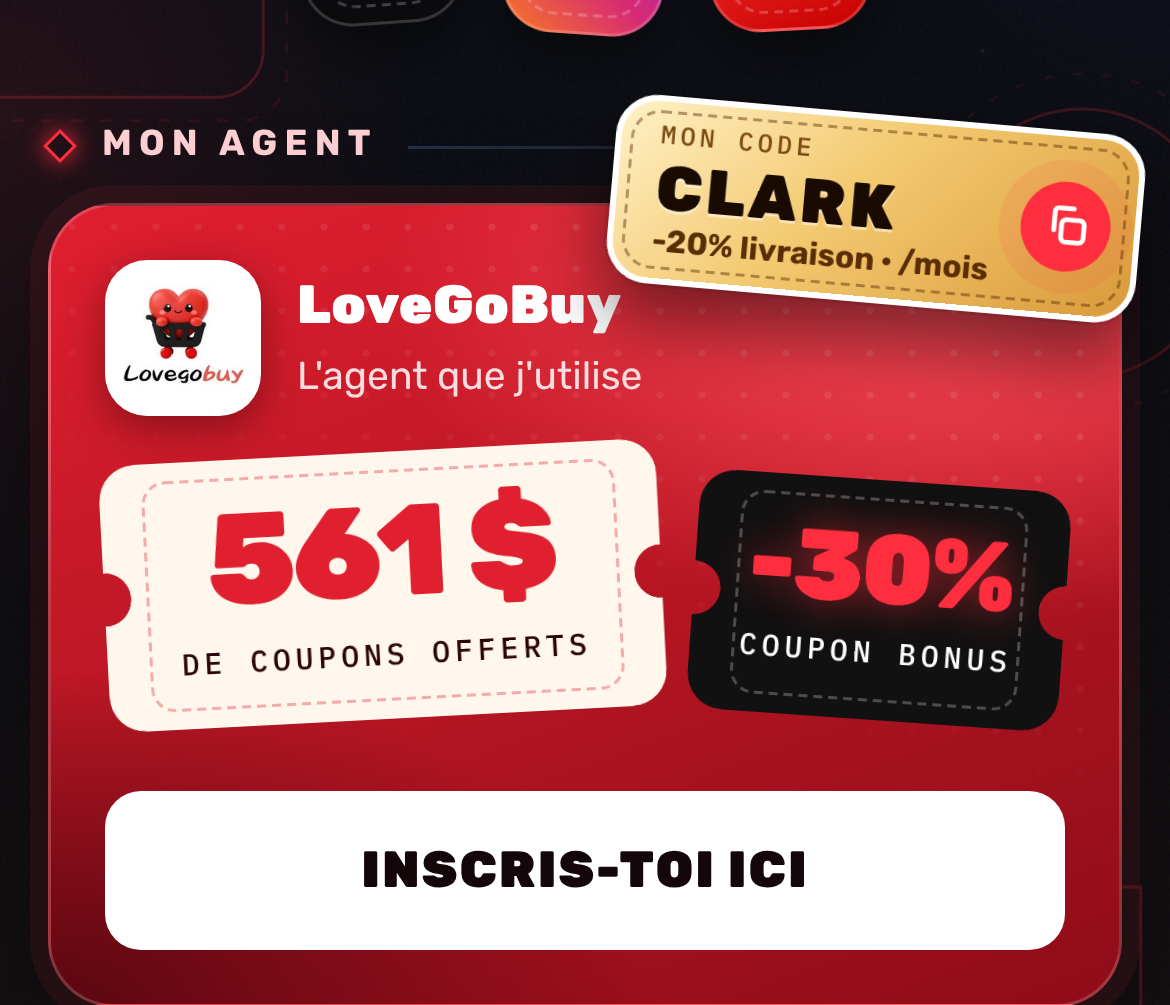
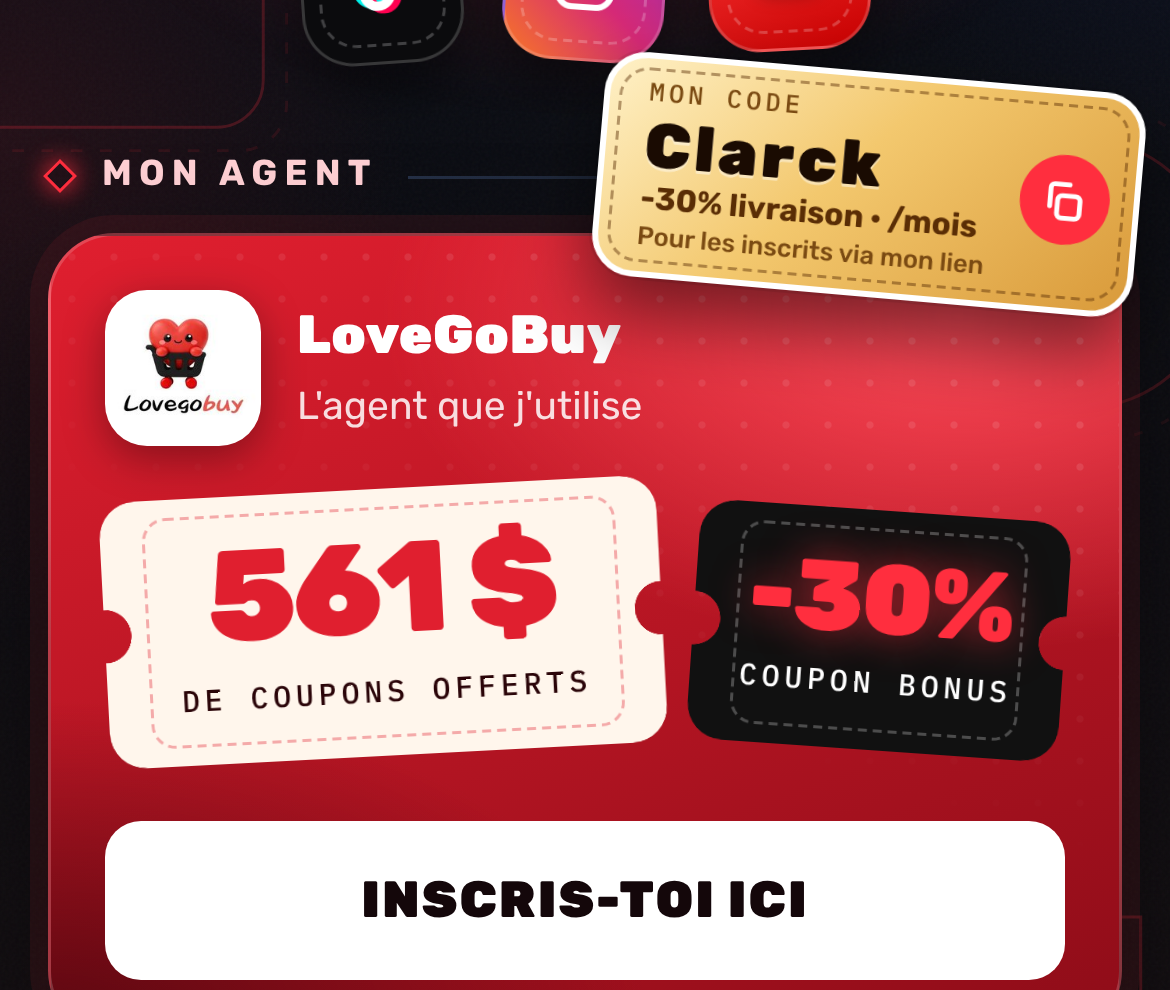
Autocollant du code : Clarck, -30 %, réservé aux inscrits via le lien
- Code affiché « Clarck » (identique au texte copié)
- Réduction livraison passée à -30 %
- Mention « Pour les inscrits via mon lien »
- Autocollant remonté pour ne pas masquer le nom LoveGoBuy

Claude-Session: https://claude.ai/code/session_01UBq3moQQS3mX5c11TKUgSi

diff --git a/index.html b/index.html
@@ -265,7 +265,7 @@ h2 i{width:8px;height:8px;border:1.5px solid var(--red);transform:rotate(45deg);
 .copyable.copied .cbtn{background:#1f9d55;animation:none}
 .feature-wrap{position:relative}
 .feature-wrap .feature .pill{display:none}
-.sticker{position:absolute;z-index:5;top:-24px;right:-6px;display:flex;align-items:center;gap:10px;padding:7px 8px 7px 13px;border:2px solid #fff;border-radius:14px;
+.sticker{position:absolute;z-index:5;top:-52px;right:-6px;display:flex;align-items:center;gap:10px;padding:7px 8px 7px 13px;border:2px solid #fff;border-radius:14px;
   font:inherit;text-align:left;cursor:pointer;color:#2a1404;background:linear-gradient(135deg,#fff1c7 0%,#f3c86e 45%,#d99a3a 100%);-webkit-tap-highlight-color:transparent;overflow:hidden;
   box-shadow:0 12px 24px rgba(0,0,0,.5),0 0 0 1px rgba(0,0,0,.08);--r:5deg;transform:rotate(var(--r));animation:float 3.4s ease-in-out infinite}
 .sticker::before{content:"";position:absolute;inset:3px;border:1.2px dashed rgba(90,45,5,.45);border-radius:10px;pointer-events:none}
@@ -275,8 +275,9 @@ h2 i{width:8px;height:8px;border:1.5px solid var(--red);transform:rotate(45deg);
 .sticker small{font-family:var(--mono);font-size:8.5px;letter-spacing:.16em;text-transform:uppercase;color:#7a4a12}
 .sticker b{font-family:var(--display);font-weight:900;font-size:21px;letter-spacing:.06em;color:#1a0b02;margin:2px 0 3px;text-shadow:0 1px 0 rgba(255,255,255,.45)}
 .sticker em{font-style:normal;font-size:10.5px;font-weight:700;color:#5a2d05}
+.sticker .s-note{font-style:normal;font-size:8.5px;font-weight:500;color:#7a4a12;margin-top:3px}
 .sticker .cbtn{width:30px;height:30px;border-radius:50%}
-@media (max-width:379px){.sticker{top:-38px;padding:6px 7px 6px 11px;gap:8px}.sticker b{font-size:18px}.sticker em{font-size:9.5px}.sticker .cbtn{width:26px;height:26px}}
+@media (max-width:379px){.sticker{top:-46px;padding:6px 7px 6px 11px;gap:8px}.sticker b{font-size:18px}.sticker em{font-size:9.5px}.sticker .cbtn{width:26px;height:26px}}
 footer{text-align:center;color:var(--muted);font-size:11px;font-family:var(--mono);letter-spacing:.12em;text-transform:uppercase}
 
 @media (prefers-reduced-motion:reduce){.prod,.ticket,.tuto-img{animation:none!important}.intro{display:none}.js .rise{opacity:1;transform:none}.feature::before,.socials a,.socials a svg{animation:none!important}*{transition:none!important}}
@@ -341,8 +342,8 @@ footer{text-align:center;color:var(--muted);font-size:11px;font-family:var(--mon
       </div>
       <span class="cta">Inscris-toi ici</span>
     </a>
-    <button class="sticker copyable" type="button" data-code="Clarck" data-umami-event="Copie code CLARK" aria-label="Copier le code Clarck : -20 % sur la livraison, chaque mois">
-      <span class="s-txt"><small>Mon code</small><b>CLARK</b><em>-20% livraison · /mois</em></span>
+    <button class="sticker copyable" type="button" data-code="Clarck" data-umami-event="Copie code CLARK" aria-label="Copier le code Clarck : -30 % sur la livraison, chaque mois, pour les inscrits via mon lien">
+      <span class="s-txt"><small>Mon code</small><b>Clarck</b><em>-30% livraison · /mois</em><i class="s-note">Pour les inscrits via mon lien</i></span>
       <span class="cbtn"><svg class="cp" viewBox="0 0 24 24" fill="none" stroke="currentColor" stroke-width="2.6" stroke-linecap="round" stroke-linejoin="round"><rect x="9" y="9" width="12" height="12" rx="2.5"/><path d="M5 15V5a2 2 0 0 1 2-2h8"/></svg><svg class="ok" viewBox="0 0 24 24" fill="none" stroke="currentColor" stroke-width="3.2" stroke-linecap="round" stroke-linejoin="round"><path d="M5 12.5l4.5 4.5L19 7.5"/></svg></span>
     </button>
     </div>
